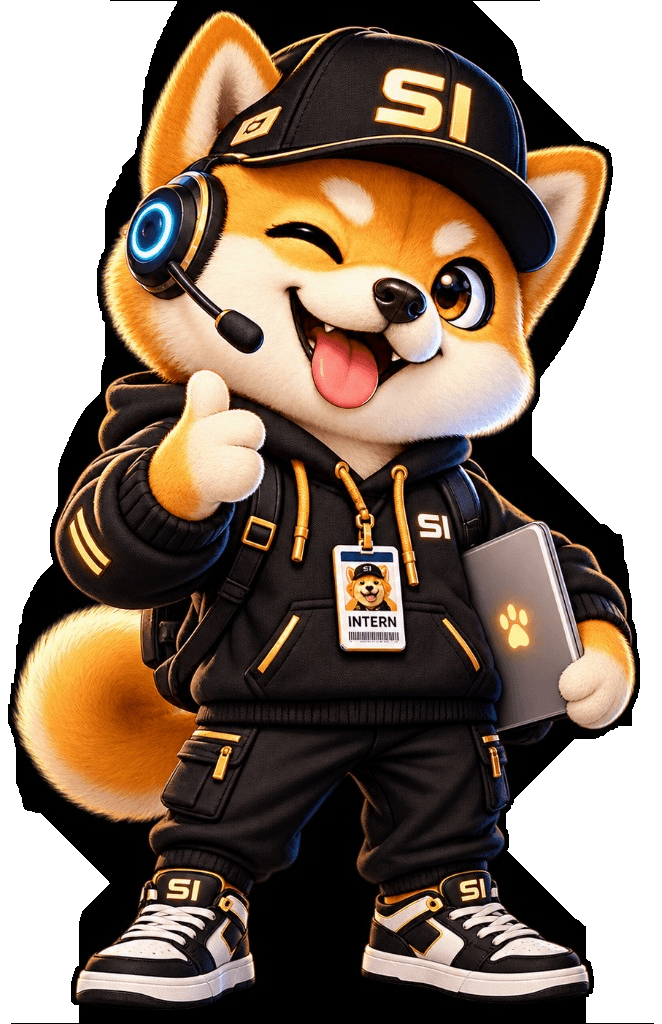
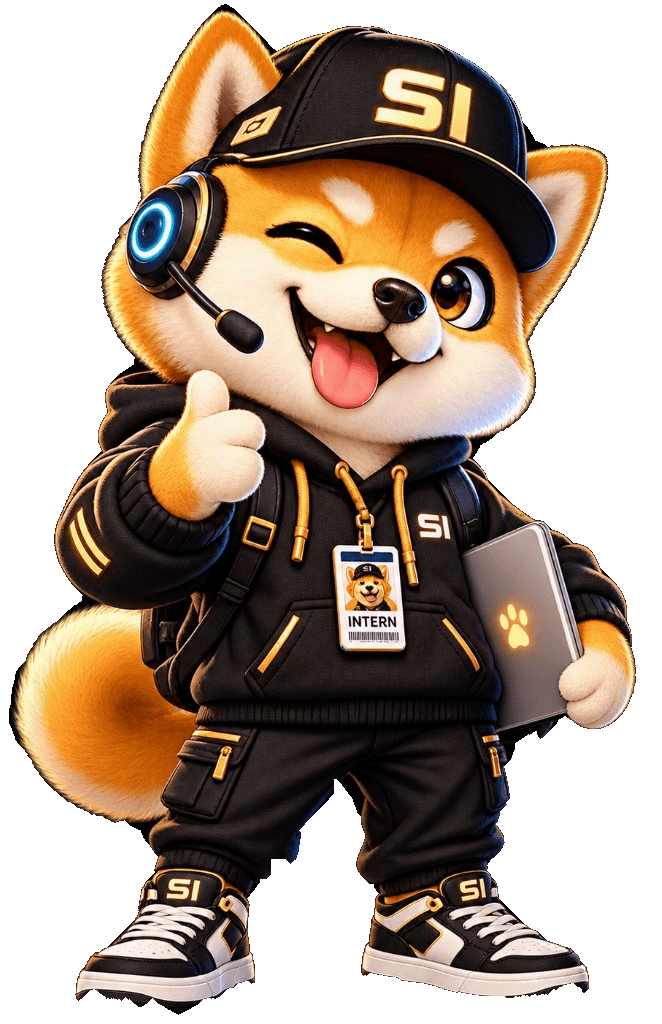
Remove the black silhouette behind the hero.

Changed region(s): [[0.0, 0.0, 0.9668, 1.0]]

diff --git a/src/components/Hero.tsx b/src/components/Hero.tsx
@@ -80,7 +80,6 @@ export function Hero() {
         </div>
 
         <div className="relative mx-auto w-full max-w-lg">
-          <div className="absolute inset-[8%] rounded-full bg-black blur-2xl" aria-hidden="true" />
           <div
             className="absolute inset-0 bg-[radial-gradient(ellipse_at_center,rgba(54,167,255,0.45),transparent_62%)]"
             aria-hidden="true"
@@ -92,7 +91,7 @@ export function Hero() {
             height={assetSize.hero.height}
             fetchPriority="high"
             decoding="async"
-            className="relative z-10 mx-auto w-[86%] object-contain drop-shadow-[0_30px_40px_rgba(0,0,0,0.45)]"
+            className="relative z-10 mx-auto w-[86%] object-contain"
             animate={reduce ? undefined : { y: [0, -14, 0], rotate: [0, 1.1, 0, -1.1, 0] }}
             transition={reduce ? undefined : { duration: 8, repeat: Infinity, ease: 'easeInOut' }}
           />
